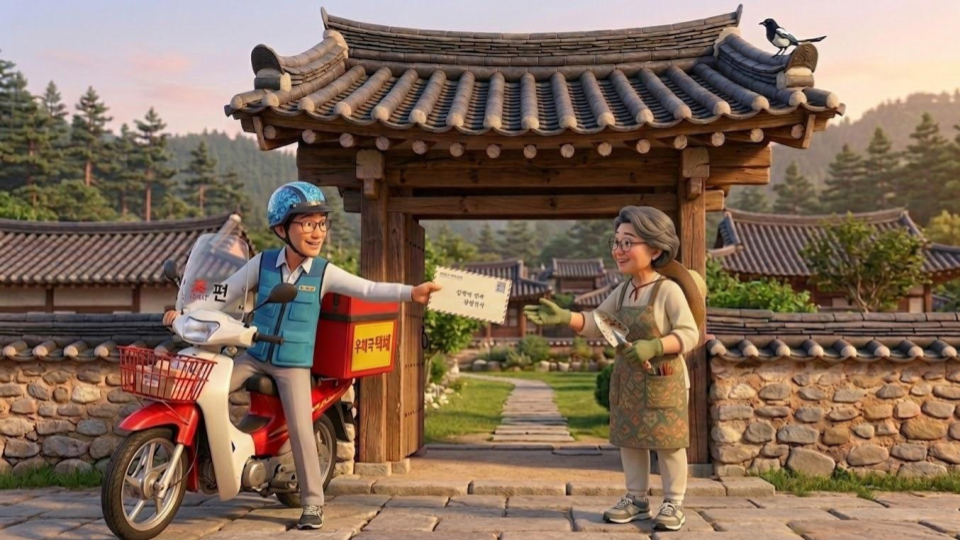
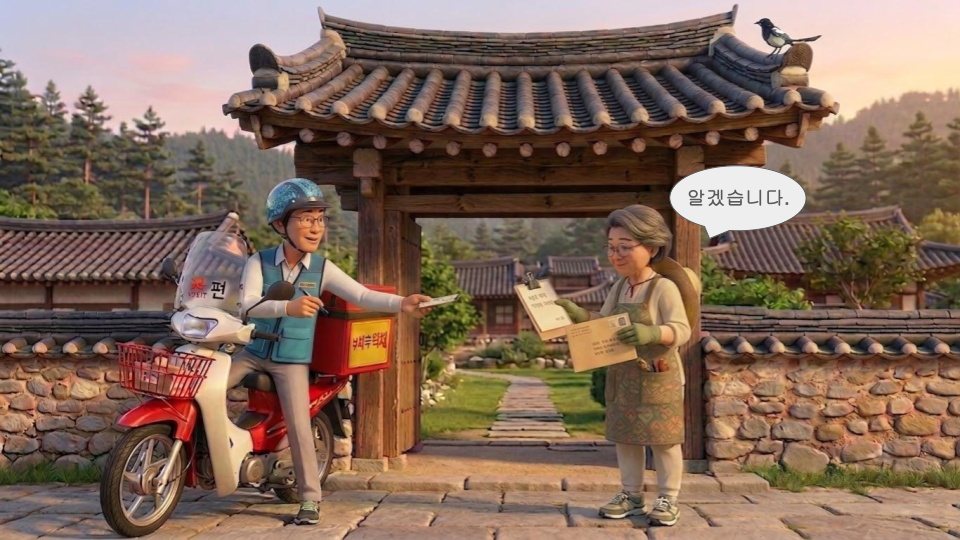
feat: HQ Level 4 ep01 (계십니까?) — formal speech style

diff --git a/nhs.html b/nhs.html
@@ -2351,6 +2351,15 @@ const READING_POOL = {
       {q:'요즘 어떤 회사들이 다른 호칭을 써요?', q_en:'Which companies use different forms of address?', options:['대기업과 공무원','스타트업이나 외국계 회사','병원과 학교'], answer:1},
     ]
   },
+
+  'L4_ep01':{
+    passage:'우체부가 할머니 댁에 왔어요. "계십니까?" 하고 불렀어요. 할머니가 나와서 누구냐고 물었어요. 우체부는 등기 우편이 왔다고 했어요. 확인 후에 사인이 필요하다고 했어요. 편지는 HQ은행에서 보낸 신용카드였어요. 할머니는 사인을 하고 우편을 받았어요.',
+    passage_en:'A postal worker came to grandma\'s house. He called out, "Is anybody home?" Grandma came out and asked who it was. The postal worker said a registered letter had arrived. He said a signature was needed after confirmation. The letter was a credit card sent from HQ Bank. Grandma signed and received the mail.',
+    questions:[
+      {q:'우체부는 왜 할머니의 사인을 받았어요?', q_en:'Why did the postal worker need a signature from grandma?', options:['등기 우편은 수령 확인이 필요해서','선물을 주려고','편지를 잃어버려서'], answer:0},
+      {q:'편지는 어디에서 보낸 거예요?', q_en:'Where was the letter sent from?', options:['우체국','HQ은행','학교'], answer:1},
+    ]
+  },
 };
 
 let _rdPool=null, _rdQIdx=0, _rdAnswered=0;
@@ -2569,6 +2578,11 @@ const SP_QUIZ_POOL = {
   'L3_ep05':[
     {chars:'늦잠을자는바람에지각했어요', spaces:[2,4,7,9], en:'Because I overslept, I was late.', hint:'늦잠을 · 자는 · 바람에 · 지각했어요'},
     {chars:'머리를못감은채로출근했어요', spaces:[3,6,8,10], en:'I came to work without washing my hair.', hint:'머리를 · 못 감은 · 채로 · 출근했어요'},
+  ],
+
+  'L4_ep01':[
+    {chars:'등기우편이왔습니다', spaces:[2,5], en:'A registered letter has arrived.', hint:'등기 · 우편이 · 왔습니다'},
+    {chars:'수령확인이필요합니다', spaces:[2,5], en:'Confirmation of receipt is needed.', hint:'수령 · 확인이 · 필요합니다'},
   ],};
 
 let _spqPool=null, _spqIdx=0, _spqClicked=[];